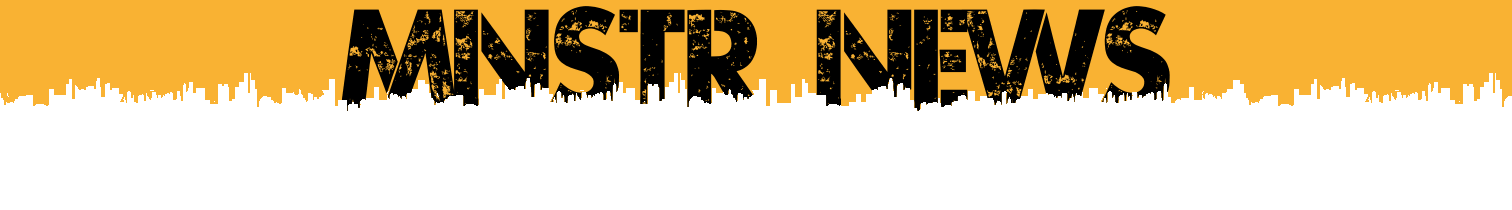
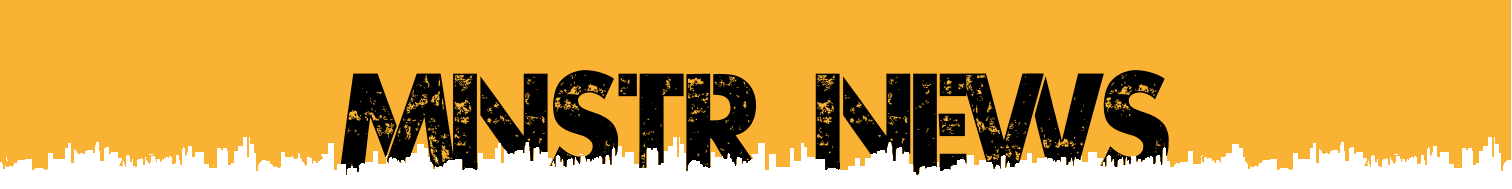
FUCKING XML FILE

diff --git a/mnstr/templates/main.html b/mnstr/templates/main.html
@@ -31,7 +31,18 @@
 					                    <div class="span3 source" data-source_id="{{ news.id }}" data-source_click_url="/source_click/">
 					                        <div class="div-logo"><img class="source-logo" src="{{ news.source }}"></div>
 					                        <div class="heading">{{ news.name|truncatechars:27 }}</div>
-					                        <a href="{{ news.link }}"><div class="img-source" style="background-size:contain; background-image:url('{{ news.image_link }}');"><span style="text-align:center; color:black; float:right; width: 60px; height: 20px; background-color: rgba(255, 255, 255, 150);"><span class="news_views">{{ news.views }}</span>&nbspviews</span></div></a>
+					                        <a href="{{ news.link }}">
+                                                <div class="img-source">
+                                                    <div style="width:90%; height:100%; background-size:contain; background-image:url('{{ news.image_link }}');">
+                                                        <span style="text-align:center; font-size:8px; color:black; float:right; width: 35px; height: 17px; background-color: rgba(255, 255, 255, 150);">
+                                                            <span class="news_views">
+                                                                {{ news.views }}
+                                                            </span>
+                                                            &nbspviews
+                                                        </span>
+                                                    </div>
+                                                </div>
+                                            </a>
 					                        <div class="description">{{ news.description|truncatechars:200 }}</div>
 					                    </div>
 				                	{% endfor %}

diff --git a/mnstr/static/css/main.css b/mnstr/static/css/main.css
@@ -28,27 +28,23 @@ a {
 a:hover {
     color: #f6d59a;
     text-decoration: none;
+    cursor:pointer;
 }
 
 .votes {
     display: none;
 }
 
-h1.page-title
-{
-    text-align:center;
-    font-family: 'Urban';
-    font-size:6em;
-    margin-top: 80px;
-}
 .img-title img {
-    width:100%;
-    position:relative;
+    width: 100%;
+    position: relative;
+    margin-top: -20px;
 }
 
 .topic-title
 {
 	text-align:left;
+    font-family: Archive;
 }
 
 .topic
@@ -74,6 +70,7 @@ h1.page-title
 .img-source {
     width: 200px;
     height: 130px;
+
 }
 
 .description {
@@ -86,7 +83,6 @@ h1.page-title
 {
     height: 250px;
     min-width: 170px;
-    padding: 5px;
 }
 
 .source .heading

diff --git a/mnstr/views.py b/mnstr/views.py
@@ -5,7 +5,7 @@ from django.template.loader import render_to_string
 from django.utils import simplejson
 from django.http import HttpResponse
 
-fetch_comments = 5
+fetch_comments = 6
 line_news = 4
 
 def home(request):
